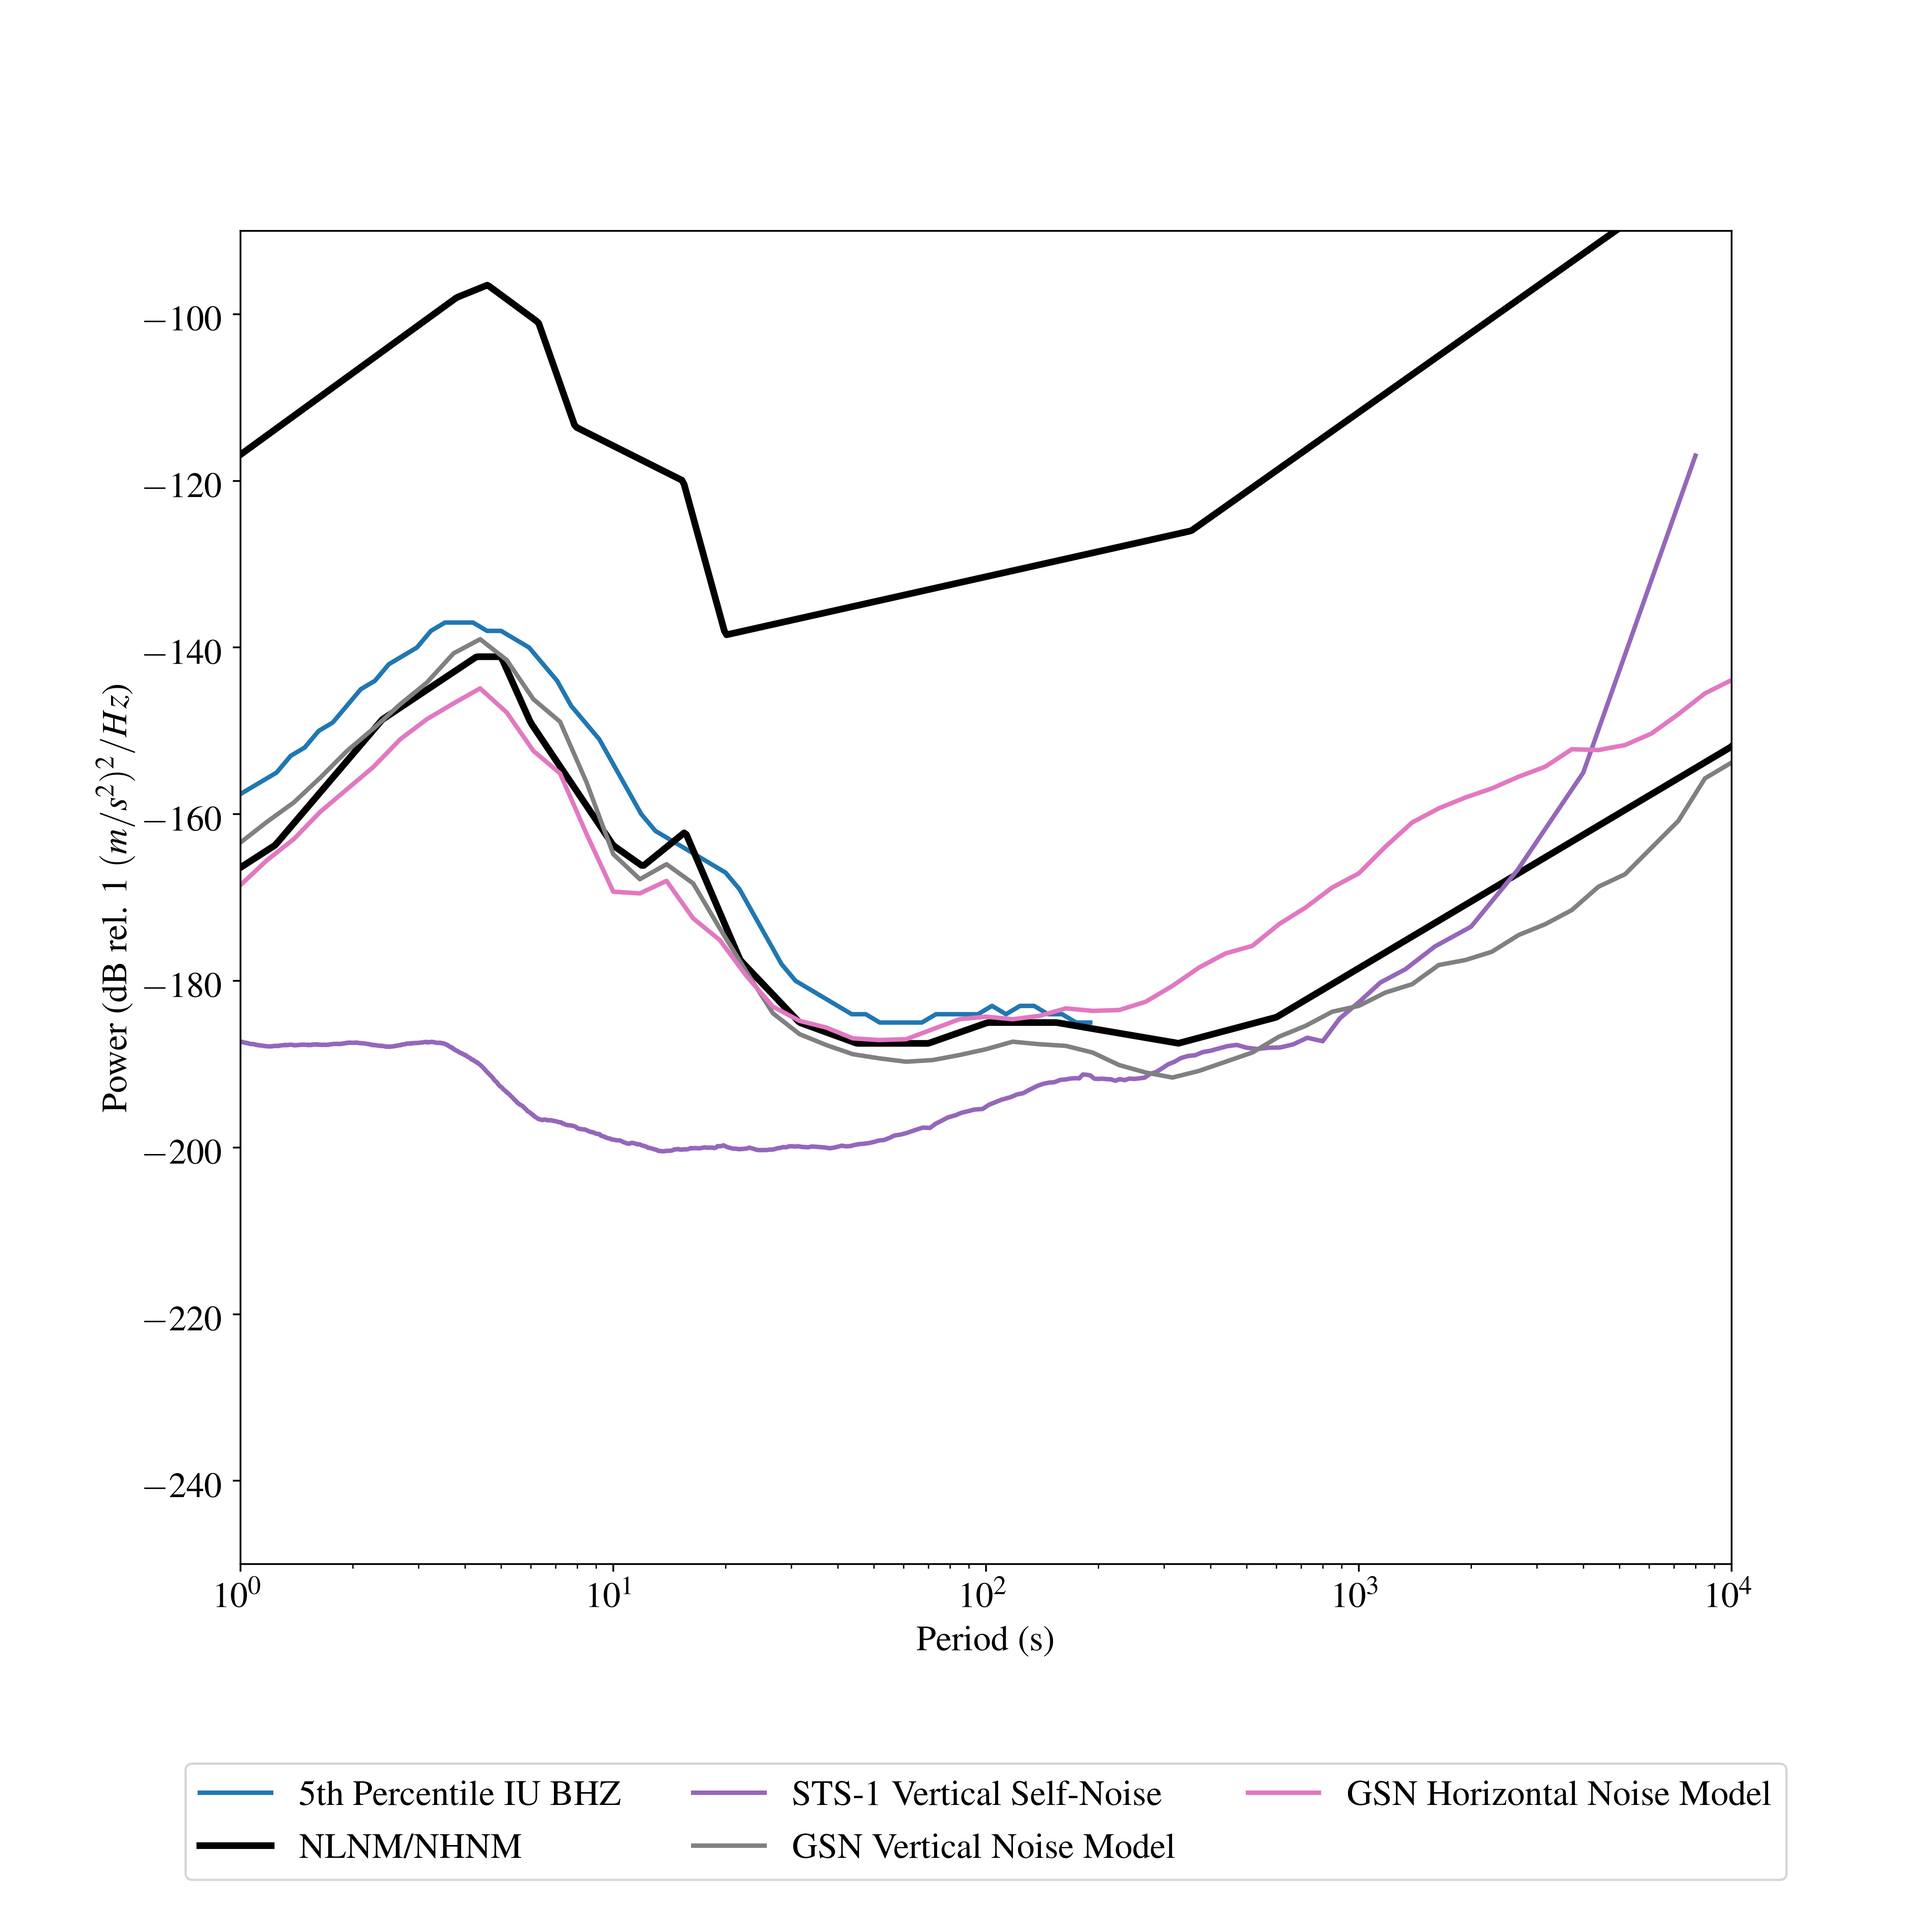
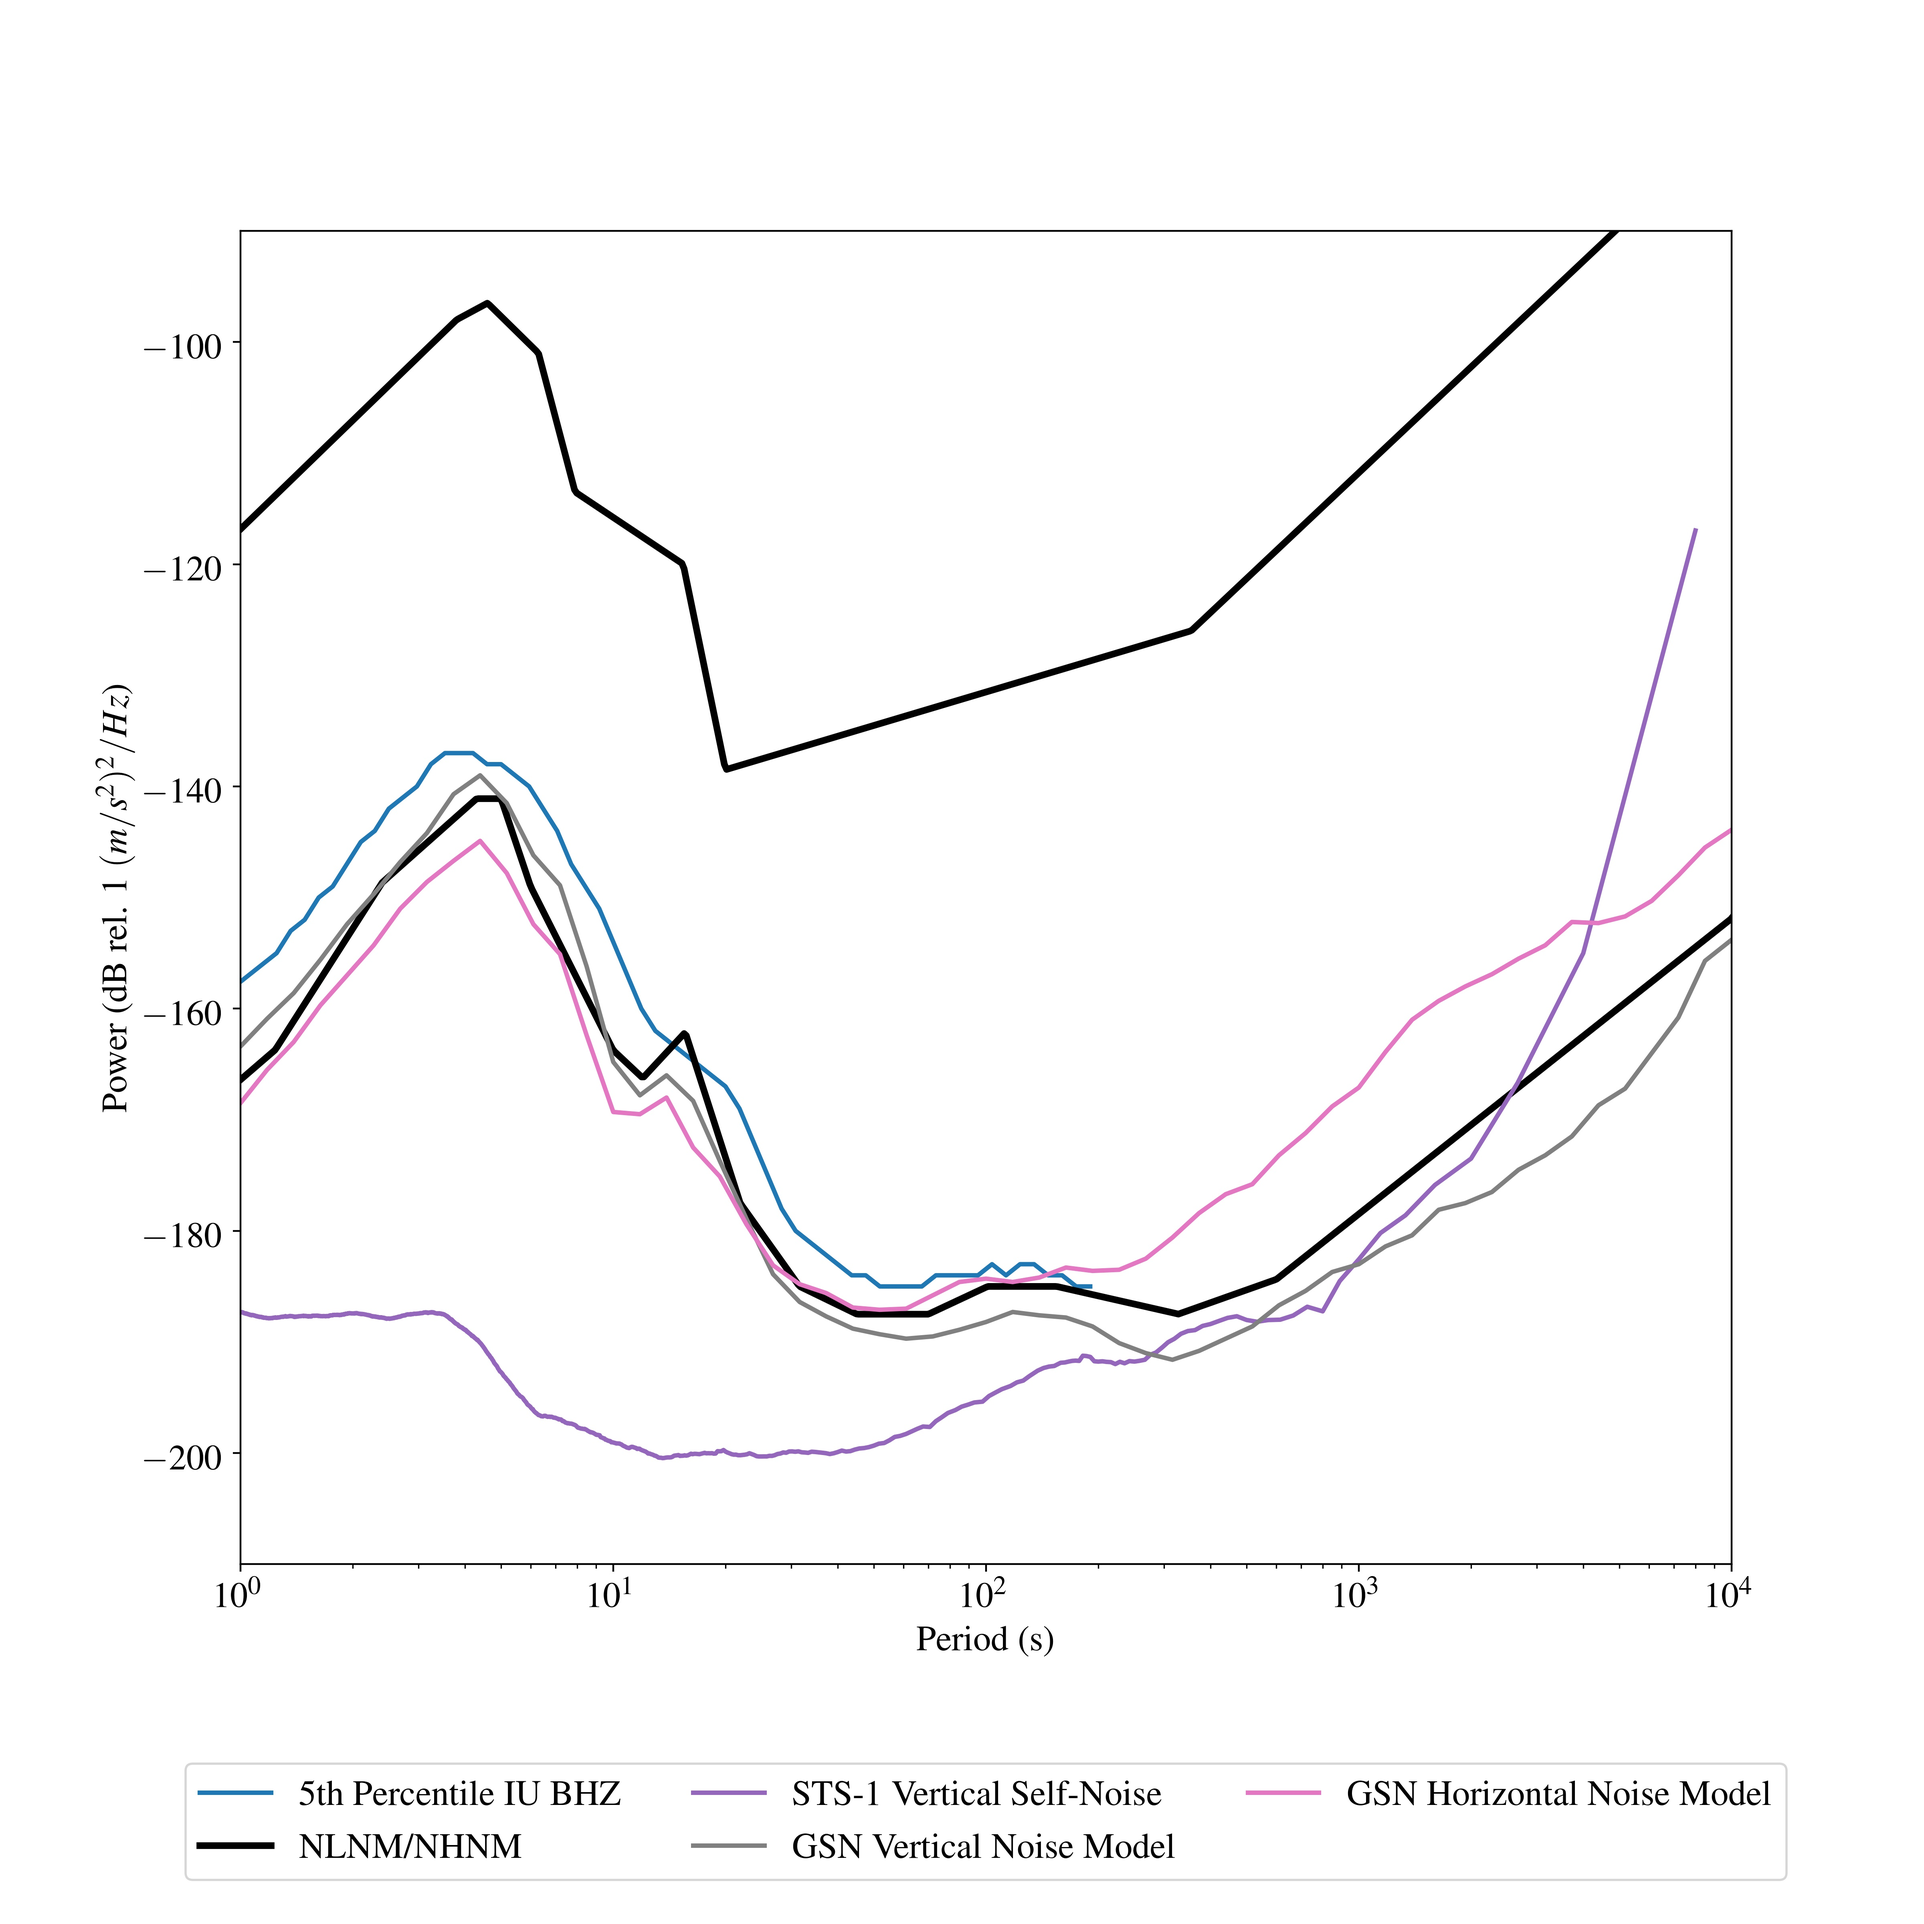
Updated some figures.

diff --git a/figure10.py b/figure10.py
@@ -33,7 +33,7 @@ stime = UTCDateTime('2018-08-19T00:19:40')
 stime2 = stime
 # min and max frequency in milliHz
 mf= 0.5
-Mf= 1.2
+Mf= 1.3
 
 # In days
 length = 60
@@ -50,12 +50,12 @@ hours = int((1000.*1.1*195./0.76593)/(60.*60.))
 print('Using ' + str(hours) + ' hours of data')
 
 # List of reference modes to plot (only good for sub 1 mHz)
-modes = [[0.8143, '0S0'], [0.30945, '0S2'], [0.46850, '0S3'], [0.64682, '0S4'], [0.68020, '1S2'], 
-            [0.84002, '0S5'], [0.93997, '1S3'], [0.94435, '3S1'], [1.0382, '0S6'], [1.4135, '0S7'], [1.4135,'0S8'], 
-            [1.5783, '0S9'], [1.7265,'0S10'],[1.17278, '1S4'], [1.37,'1S5'], [1.243, '2S3'],[1.3797,'2S4'], [1.10620,'3S2'],
+modes = [[0.8140, '0S0'], [0.3092, '0S2'], [0.46884, '0S3'], [0.6469, '0S4'], [0.67934, '1S2'], 
+            [0.84022, '0S5'], [0.93908, '1S3'], [0.94434, '3S1'], [1.0379, '0S6'], [1.23133, '0S7'], [1.4135,'0S8'], 
+            [1.5783, '0S9'], [1.7265,'0S10'],[1.1720, '1S4'], [1.37,'1S5'], [1.2412, '2S3'],[1.3797,'2S4'], [1.1055,'3S2'],
             [1.4116, '4S1'],
-            [0.37970, '0T2'], [0.58630, '0T3'], [0.76593, '0T4'], [0.92845, '0T5'],[1.07913,'0T6'],[1.22115,'0T7'],
-            [1.35660, '0T8'],[1.2353, '1T1'], [1.31912,'1T2'], [1.43835, '1T3'],[1.48707, '0T9']]
+            [0.37889, '0T2'], [0.5856, '0T3'], [0.7649, '0T4'], [0.9272, '0T5'],[1.0775,'0T6'],[1.219,'0T7'],
+            [1.35660, '0T8'], [1.31912,'1T2'], [1.43835, '1T3'],[1.48707, '0T9']]
 resppath = '/APPS/metadata/RESPS/RESP.'
 
 
@@ -202,7 +202,8 @@ for idx, tr in enumerate(st.select(channel='LH*')):
         pidx = 3
         label='LHE'
     plt.subplot(3,1,pidx)
-    plt.plot(f,p, label=tr.stats.location + ' ' + label)
+    plt.plot(f,p, label=tr.stats.location + ' ' + label, alpha=0.7)
+    plt.fill_between(f, 0, p, alpha=0.7)
     if pcorr:
         plt.plot(f,pGood, label=tr.stats.location + ' ' + tr.stats.channel+ ' Pressure Corrected')
     plt.legend(loc='upper left', fontsize=12)
@@ -216,9 +217,19 @@ for idx, tr in enumerate(st.select(channel='LH*')):
                     + ' ' + str(tr.stats.starttime.julday).zfill(3) + ' ' + str(tr.stats.starttime.hour).zfill(2) + ':' + 
                     str(tr.stats.starttime.minute).zfill(2) + ':' + str(tr.stats.starttime.second) + ' Duration: ' +
                     str(hours) + ' Hours')
+    
+    if pidx == 1:
+        plt.text(.4, 0.007, '(a)', fontsize=28)
+    if pidx == 2:
+        plt.text(.4, 0.007, '(b)', fontsize=28)
+    if pidx == 3:
+        plt.text(.4, 0.007, '(c)', fontsize=28)
+    
+    
+    
     # Plot modes
     if idx < 3:
-        locp = max(p)*.95
+        locp = max(p)*1.1
         for nidx, mode in enumerate(modes):
             if (mode[0] <= max(f)) and (mode[0] >= min(f)):
                 label = mode[1]
@@ -227,48 +238,48 @@ for idx, tr in enumerate(st.select(channel='LH*')):
                     label += label[3]
                 if debug:
                     print(label)
-                plt.plot((mode[0], mode[0]), (-10., 500.), color='grey')
+                plt.plot((mode[0], mode[0]), (-10., 500.), color='grey', alpha=0.5)
                 
-                plt.text(mode[0] + .003, locp, '$' + label + '$' , fontsize=12)
+                plt.text(mode[0] + .003, locp, '$' + label + '$' , fontsize=14)
              
-                locp -= max(p)*0.1
+                locp -= max(p)*0.15
                 if locp < 0.75*max(p):
-                    locp = 0.95*max(p)
+                    locp = 1.1*max(p)
     #plt.ylim((-.0, max(p)*1.1))
-    plt.ylim((0., 0.006))
+    plt.ylim((0., 0.007))
 # Time to plot a synthetic
 
-st = read(diresyn + '/' + sta + "*.modes.sac")
-st.trim(starttime=stime, endtime=stime+hours*60.*60.)
+#st = read(diresyn + '/' + sta + "*.modes.sac")
+#st.trim(starttime=stime, endtime=stime+hours*60.*60.)
 
-st.detrend('linear')
-st.detrend('constant')
-for tr in st:
-    win = signal.get_window(('kaiser', 2.*np.pi), tr.stats.npts)
-    tr.data *= win
+#st.detrend('linear')
+#st.detrend('constant')
+#for tr in st:
+    #win = signal.get_window(('kaiser', 2.*np.pi), tr.stats.npts)
+    #tr.data *= win
 
-for tr in st:
-    tr.data = np.pad(tr.data, (int((length*60*60*24/20 -tr.stats.npts)/2.),int((length*60*60*24/20 -tr.stats.npts)/2.)), 'edge')  
-st.merge()
+#for tr in st:
+    #tr.data = np.pad(tr.data, (int((length*60*60*24/20 -tr.stats.npts)/2.),int((length*60*60*24/20 -tr.stats.npts)/2.)), 'edge')  
+#st.merge()
 
 
 
-if debug:
-    print(st)
+#if debug:
+    #print(st)
 
-for tr in st:
-    f, p =  periodogram(tr.data, fs=tr.stats.sampling_rate, nfft=NFFT, scaling='spectrum')
-    f= f[1:]*1000.
-    p = np.sqrt(p[1:])
-    if tr.stats.channel == 'LHZ':
-        pidx = 1
-    elif tr.stats.channel in ['LH1','LHN']:
-        pidx = 2
-    elif tr.stats.channel in ['LH2', 'LHE']:
-        pidx = 3
-    plt.subplot(3,1,pidx)
-    plt.plot(f,p, label=tr.stats.location + ' ' + (tr.stats.channel).replace('H','X'), alpha=0.7)
-    plt.legend(loc='upper left', fontsize=12)
+#for tr in st:
+    #f, p =  periodogram(tr.data, fs=tr.stats.sampling_rate, nfft=NFFT, scaling='spectrum')
+    #f= f[1:]*1000.
+    #p = np.sqrt(p[1:])
+    #if tr.stats.channel == 'LHZ':
+        #pidx = 1
+    #elif tr.stats.channel in ['LH1','LHN']:
+        #pidx = 2
+    #elif tr.stats.channel in ['LH2', 'LHE']:
+        #pidx = 3
+    #plt.subplot(3,1,pidx)
+    #plt.plot(f,p, label=tr.stats.location + ' ' + (tr.stats.channel).replace('H','X'), alpha=0.7)
+    #plt.legend(loc='upper left', fontsize=12)
 ##sys.exit()
 
 

diff --git a/figure9.py b/figure9.py
@@ -139,20 +139,21 @@ if True:
         for idx2, mode in enumerate(modes['S']):
             mode *= 1000.
             if idx2 == 0:
-                ax1.plot([mode, mode],[-296.,-170.],'C2',":", label=r'${}_{0}S_{l}$', alpha=.5)
+                ax1.plot([mode, mode],[-296.,-170.],'C2',":", label=r'${}_{0}S_{l}$', alpha=.9)
             else:
-                ax1.plot([mode, mode],[-296.,-170.],'C2',":", alpha=.5)
+                ax1.plot([mode, mode],[-296.,-170.],'C2',":", alpha=.9)
         for idx3, mode in enumerate(modes['T']):
             mode *= 1000.
             if idx3 == 0:
-                ax1.plot([mode, mode],[-296.,-170.],'C3', label=r'${}_{0}T_{l}$', alpha=.5) 
+                ax1.plot([mode, mode],[-296.,-170.],'C3', label=r'${}_{0}T_{l}$', alpha=.9) 
             else:
-                ax1.plot([mode, mode],[-296.,-170.],'C3', alpha=.5) 
+                ax1.plot([mode, mode],[-296.,-170.],'C3', alpha=.9) 
         
         ax1.plot(freq*1000., minsp, color='C1', label=str(int(percent)) + 'th Percentile')
         plt.xlim(((1000./perM),(1000./perm)))
         plt.plot((1000./pers), nlnm,'k',label='NLNM')
         plt.ylim((-191.,-171.))
+        
         plt.yticks([-185.,-180., -175.,],[-185, -180, -175])
         if (idx + 1) < len(chans):
             plt.tick_params(axis='x', which='both', bottom=True, top=False, labelbottom=False)
@@ -161,7 +162,11 @@ if True:
             
         if idx == 1:
             plt.ylabel('Power (dB  rel. 1 $(m/s^2)^2/Hz)$)')
-        
+            plt.text(.65, -175., '(b)', fontsize=28)
+        if idx == 0:
+            plt.text(.65, -175., '(a)', fontsize=28)
+        if idx == 2:
+            plt.text(.65, -175., '(c)', fontsize=28)
         plt.text(2.2,-177., chan)
     
     ax1 = plt.gca()

diff --git a/figure13.py b/figure13.py
@@ -16,7 +16,7 @@ pernhnm, nhnm = get_nhnm()
 
 N= 5
 path = '/home/aringler/inst_test/sts6AGU/horizontalfigure/'
-fig = plt.figure(1,figsize=(9,9))
+fig = plt.figure(1,figsize=(14,9))
 plt.subplots_adjust(hspace=0.001)
 models = {}
 for idx, sen in enumerate(['I','S']):
@@ -68,12 +68,14 @@ for idx, sen in enumerate(['I','S']):
 ax1 = fig.add_subplot(3,1,1)
 plt.semilogx(per, models['ILHH'],color='C0', linewidth=2)
 plt.semilogx(per, models['ILHZ'],color='C1', linewidth=2)
+plt.text(1, -100, '(a)', fontsize=28)
 ax1 = fig.add_subplot(3,1,2)
 plt.semilogx(per, models['SLHH'],color='C0', linewidth=2)
 plt.semilogx(per, models['SLHZ'],color='C1', linewidth=2)
-
+plt.text(1, -100, '(b)', fontsize=28)
 
 ax1 = fig.add_subplot(3,1,3)
+plt.text(1, 6, '(c)', fontsize=28)
 ax1.semilogx(per, models['ILHH']-models['SLHH'],color='C0',label='LHH')
 ax1.semilogx(per, models['ILHZ']-models['SLHZ'],color='C1', label='LHZ')
 ax1.semilogx(pernlnm,nlnm,color='k',linewidth=2., label='NLNM')

diff --git a/figure6.py b/figure6.py
@@ -104,6 +104,7 @@ def selfnoise(st, length, overlap):
 debug = True
 st = Stream()
 for day in range(8, 15):
+#for day in range(8,9):
     st += read('/tr1/telemetry_days/II_BFO/2019/2019_' + str(day).zfill(3) + '/*LH*')
 #st.trim(endtime = UTCDateTime('2019-009T18:59:59.0'))
 for tr in st:
@@ -119,6 +120,7 @@ if debug:
 
 comp = 'Z'
 length = 400000
+#length = 2**10
 overlap = 0.5
 #Treat data1 as the reference and rotate 2 and three to match 1
 #angVec = [0., 0., 1.]
@@ -189,7 +191,7 @@ nm = np.abs(nm)
 #nm = np.convolve(nm, np.ones((N,))/N, mode='same')
 
 #nm2 = konno_ohmachi_smoothing(nm, fre1)
-plt.semilogx(1./fre1, 10.*np.log10(nm), label='Self-Noise Mean')
+#plt.semilogx(1./fre1, 10.*np.log10(nm), label='Self-Noise Mean')
 per_nlnm, pow_nlnm = get_nlnm()
 plt.semilogx(per_nlnm,pow_nlnm, linewidth=2, color='k')
 per_nhnm, pow_nhnm = get_nhnm()

diff --git a/figure4and5.py b/figure4and5.py
@@ -12,7 +12,7 @@ mpl.rc('font',size=18)
 st = read('/msd/IU_QSPA/2019/001/00_LHZ.512.seed')
 st += read('/msd/IU_QSPA/2019/001/40_LFZ.512.seed')
 st.detrend('constant')
-st.filter('bandpass', freqmin=0.001, freqmax=0.002)
+st.filter('bandpass', freqmin=0.001, freqmax=0.01)
 st.normalize()
 t = np.arange(st[0].stats.npts)/(60.*60.)
 
@@ -46,7 +46,12 @@ for idx, tr in enumerate(st):
     plt.plot(t, tr.data, label=(tr.id).replace('.',' '), alpha=.7)
     if idx == 1:
         plt.ylabel('Amplitude (Normalized Cnts.)')
-    plt.legend()
+        plt.text(-37., 1., '(b)', fontsize=28)
+    elif idx == 2:
+        plt.text(-37., 1., '(c)', fontsize=28)
+    elif idx == 0: 
+        plt.text(-37., 1., '(a)', fontsize=28)
+    plt.legend(loc=1)
     plt.xlim((min(t), max(t)))
 
 plt.xlabel('Time (Hours)')

diff --git a/figure1.py b/figure1.py
@@ -20,6 +20,7 @@ inds = range(len(vals))
 fig = plt.figure(1, figsize=(12,12))
 plt.subplot(2,1,1)
 ind = np.arange(len(vals))/float(len(vals))
+print(ind)
 cols = cm.viridis(np.flip(ind))
 
 
@@ -36,7 +37,11 @@ plt.text(-2., 650., '(a)', fontsize=26)
 
 plt.subplot(2,2,3)
 
-plt.pie(ships, colors=cols, labels=networks, autopct="%1.1f%%")
+ships2 = [125., 110., 1. ,  130., 70., 195., 155., 5.]
+networks2 = [ 'GSN', 'International' , 'Other', 'FDSN' , 'Earthscope', 'Portable' , 'US Regional' , 'Engineering' ]
+cols2 = cm.viridis(np.flip(np.append(np.append(ind[:2], ind[-1]), ind[2:-1])))
+
+plt.pie(ships2, colors=cols2, labels=networks2, autopct="%1.1f%%")
 plt.title('Shipped Data (TB)')
 plt.text(-1.5, 1.4, '(b)', fontsize=26)
 plt.subplot(2,2,4)

diff --git a/figure7.py b/figure7.py
@@ -41,7 +41,7 @@ plt.text(0.15, 1.00, '(a)', fontsize=28)
 plt.semilogx(1./f, samp1, label='S-wave 00 Amplitude')
 plt.semilogx(1./f, samp2, label='S-wave 10 Amplitude')
 plt.legend()
-plt.xlim((0.25, 10))
+plt.xlim((0.25, 20))
 plt.ylabel('Amplitude (Normalized)')
 plt.xlabel('Period (s)')
 plt.subplot(3,1,2)
@@ -50,7 +50,7 @@ plt.semilogx(1./f, 20.*np.log10(samp1/samp2), label='S-wave 00 to 10 Ratio (dB)'
 plt.ylabel('Power (dB)')
 plt.text(0.15, 0.2, '(b)', fontsize=28)
 plt.legend()
-plt.xlim((0.25, 10))
+plt.xlim((0.25, 20))
 plt.xlabel('Period (s)')
 #plt.show()
 

diff --git a/figure8.py b/figure8.py
@@ -164,7 +164,13 @@ if True:
             plt.ylabel('Power (dB  rel. 1 $(m/s^2)^2/Hz)$)')
         
         plt.text(1./2500.,-195., chan)
-    
+        if idx == 1:
+            plt.ylabel('Power (dB  rel. 1 $(m/s^2)^2/Hz)$)')
+            plt.text(.00013, -175., '(b)', fontsize=28)
+        if idx == 0:
+            plt.text(.00013, -175., '(a)', fontsize=28)
+        if idx == 2:
+            plt.text(.00013, -175., '(c)', fontsize=28)
     ax1 = plt.gca()
     hand, lab = ax1.get_legend_handles_labels()
     #del hand[2]

diff --git a/figure12.py b/figure12.py
@@ -115,7 +115,7 @@ ax.set_position([box.x0, box.y0 + box.height * 0.1,
 
 
 #plt.tight_layout()
-plt.ylim((-250., -90.))
+plt.ylim((-210., -90.))
 plt.xlim((1., 10.**4))
 ax.legend(ncol=3, loc='lower center', bbox_to_anchor=(0.5, -0.25))
 #plt.subplots_adjust(top = 0.97)
